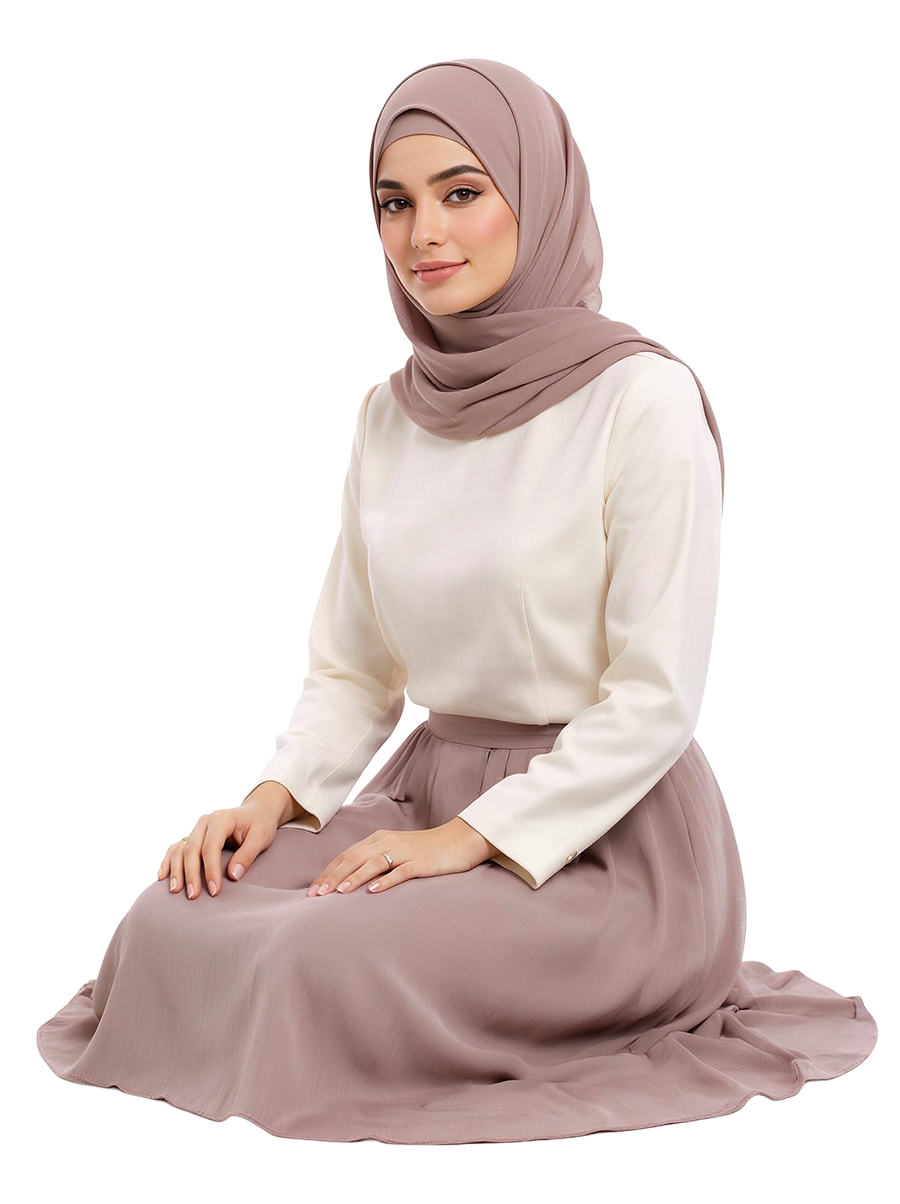
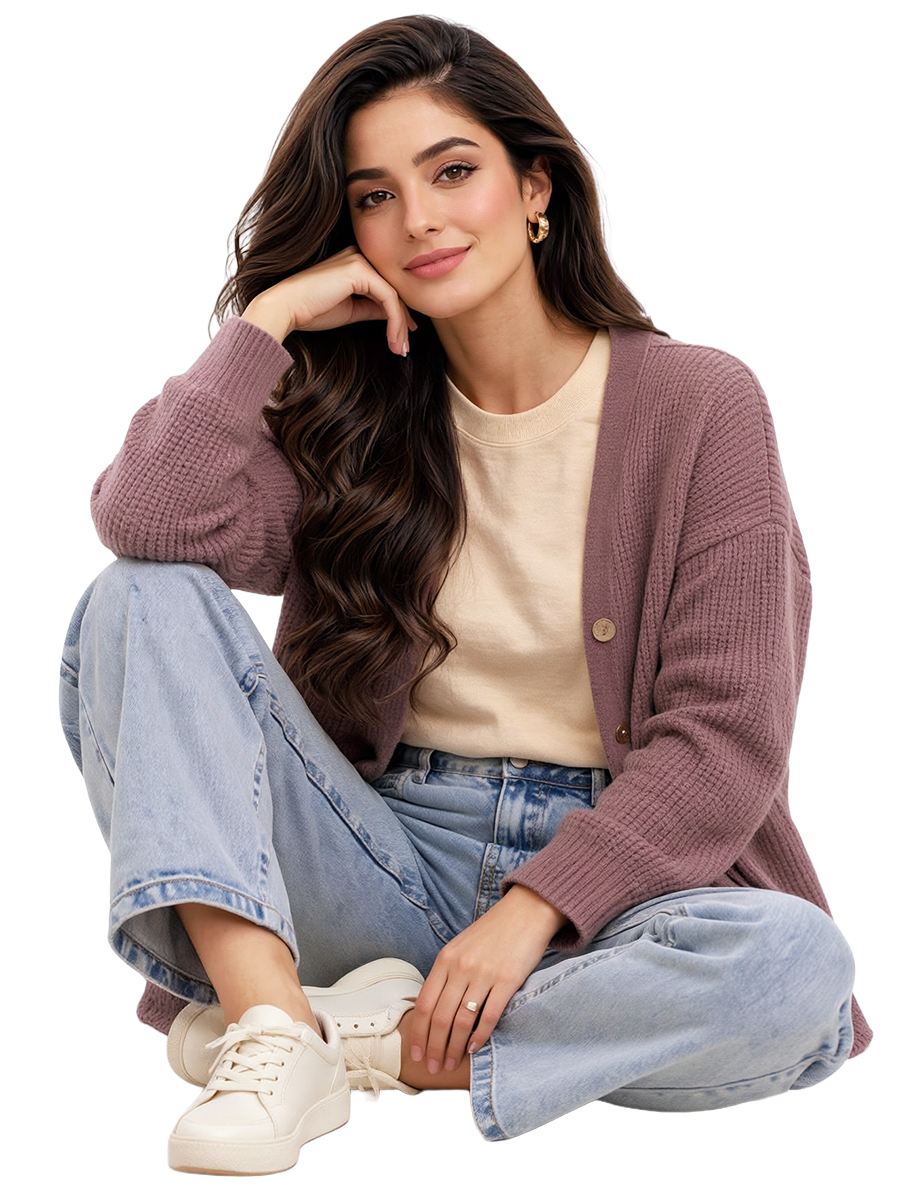
revert(storefront): restore previous casual homepage hero
Restore the previous casual mauve-cardigan and light-denim hero image. Add a cache-busting version to the image and preload references. No other storefront functionality changed.

diff --git a/index.html b/index.html
@@ -563,7 +563,7 @@ body{background:var(--mirror)}
   .seg{height:41px}
 }
 </style>
-<link rel="preload" href="assets/hero-woman-casual-900.png" as="image" type="image/png" fetchpriority="high">
+<link rel="preload" href="assets/hero-woman-casual-900.png?v=20261115-casual" as="image" type="image/png" fetchpriority="high">
 <link rel="stylesheet" href="css/atelier-site.css?v=20261114-luxe">
 <script>
 /* Begin the public catalog request during HTML parsing instead of waiting for the UI bundle. */
@@ -622,7 +622,7 @@ if ((["selectshopeg.com", "www.selectshopeg.com"].includes(prefetchHost) ||
           <a class="btn-solid" href="#shop">تصفح المنتجات</a>
         </div>
       </div>
-      <div class="hero-visual" aria-hidden="true"><img src="assets/hero-woman-casual-900.png" alt="" width="900" height="1200" fetchpriority="high" decoding="async"></div>
+      <div class="hero-visual" aria-hidden="true"><img src="assets/hero-woman-casual-900.png?v=20261115-casual" alt="" width="900" height="1200" fetchpriority="high" decoding="async"></div>
       <ul class="hero-trust" aria-label="مميزات الطلب"><li>الدفع عند الاستلام</li><li>شحن لكل المحافظات</li><li>الطلب في دقيقة</li></ul>
     </section>
 
